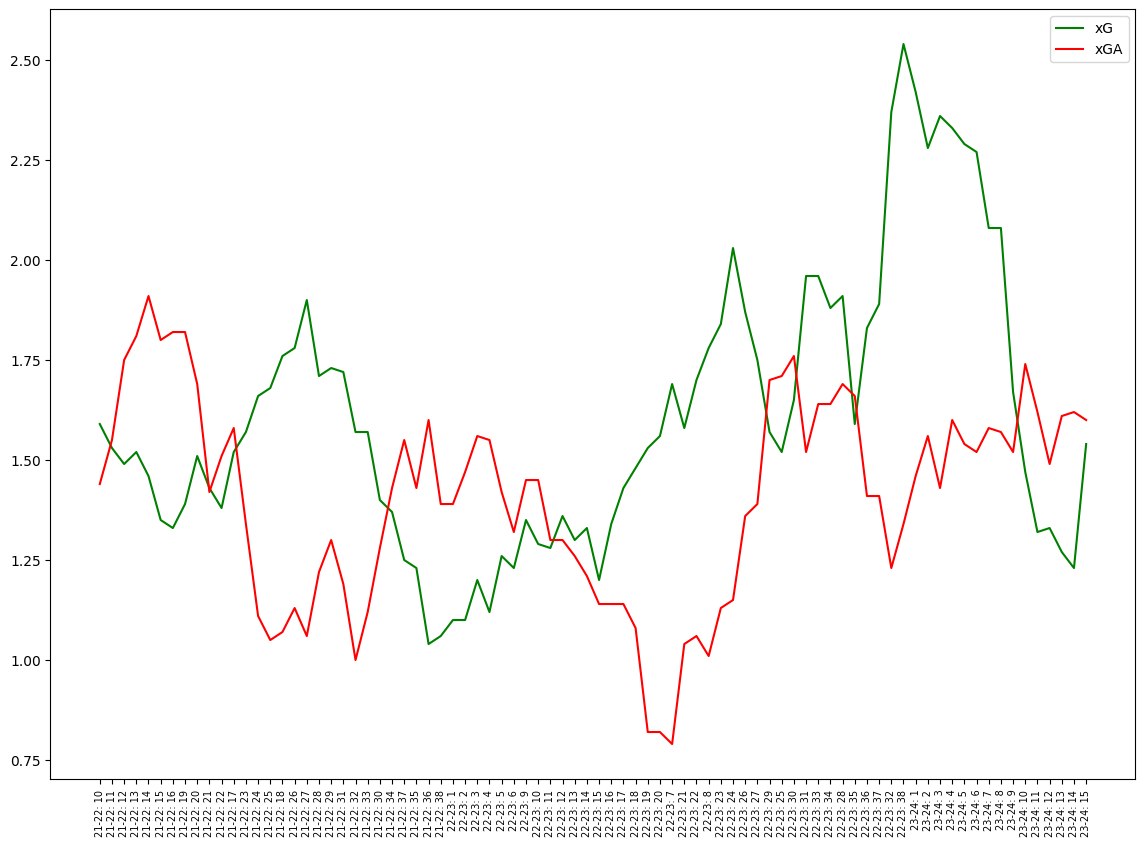
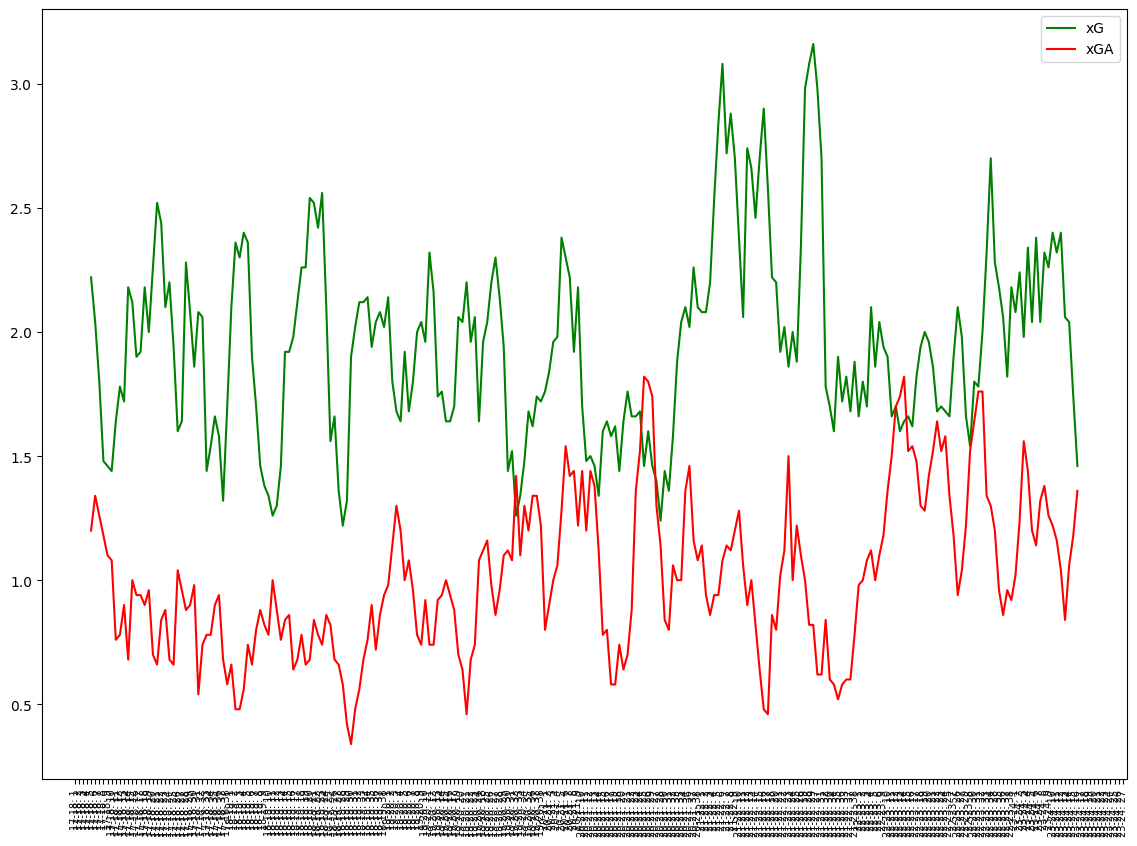
Restructured overall code, created class, added object-orientation

diff --git a/footy_analysis/team_specific.py b/footy_analysis/team_specific.py
@@ -2,42 +2,74 @@ import pandas as pd
 import matplotlib.pyplot as plt
 import numpy as np
 
-df_23_24 = pd.read_html('https://fbref.com/en/squads/19538871/Manchester-United-Stats')
-df_21_22 = pd.read_html('https://fbref.com/en/squads/19538871/2021-2022/Manchester-United-Stats')
-df_22_23 = pd.read_html('https://fbref.com/en/squads/19538871/2022-2023/Manchester-United-Stats')
 
-# Save the actual df that we'd like
-results_23_24_df = df_23_24[1]
-results_22_23_df = df_22_23[1]
-results_21_22_df = df_21_22[1]
+class TeamClass:
+    """Creates an individual team object, from which we can perform analysis"""
 
-results_22_23_df['season'] = '22-23'
-results_23_24_df['season'] = '23-24'
-results_21_22_df['season'] = '21-22'
+    def __init__(self, param1):
+        team_sheets = pd.read_csv('footy_analysis/premier_league_fbpages.csv')
+        print(team_sheets.head(5))
 
-df = pd.concat([results_21_22_df, results_22_23_df, results_23_24_df])
+        self.df = pd.DataFrame()
 
-def rolling_average(df, col, window):
-    df[col + '_rolling'] = df[col].rolling(window=window).mean()
-    return df
+        # Append all column not equal to 'team' to the df
+        for col in team_sheets.columns[team_sheets.columns != 'team']:
+            temp_df = pd.read_html(team_sheets.loc[team_sheets['team'] == param1][col].values[0])
+            temp_df = temp_df[1]
+            temp_df['season'] = col
+            self.df = pd.concat([self.df, temp_df])
+        
+        self.team = param1
+    
+    def clean(self):
+        self.df = self.df.loc[self.df['Comp'] == 'Premier League']
+        self.df['Round'] = self.df['Round'].str.extract('(\d+)')
+        self.df['Round'] = self.df['season'] + ': ' + self.df['Round'].astype(str)
 
-df_rolling = rolling_average(df.loc[df['Comp'] == 'Premier League'], 'xG', 10)
-df_rolling = rolling_average(df_rolling, 'xGA', 10)
-df_rolling_red = df_rolling.loc[~df_rolling['xG'].isnull() & ~df_rolling['xG_rolling'].isnull()]
+        # Round values should be ordered chronologicaly
+        self.df['Round'] = pd.Categorical(self.df['Round'], categories=self.df['Round'].unique(), ordered=True)
 
-# Create a combined season and round column - extract the full season column, then a colon, and then the number from the round column
-df_rolling_red['Round'] = df_rolling_red['Round'].str.extract('(\d+)')
-df_rolling_red['Round'] = df_rolling_red['season'] + ': ' + df_rolling_red['Round'].astype(str)
+        return self.df
+    
+    def rolling_average(self, col, window):
+        self.df[col + '_rolling'] = self.df[col].rolling(window=window).mean()
+        return self.df
+    
+    def plot_rolling_averages(self, cols, seasons, colors=['green', 'red']):
+        """Plots a rolling average for a given column and a list of seasons"""
+        # Create a temp dataframe of only the seasons we want to plot, and only where cols are not null
+        temp_df = self.df.loc[self.df['season'].isin(seasons) & self.df[cols[0]].notnull()]
 
-# Plot the rolling xG average
-larger_figsize = (14, 10)  # Adjust these values as needed
-plt.figure(figsize=larger_figsize)
-plt.plot(df_rolling_red['Round'], df_rolling_red['xG_rolling'], color='green')
-plt.plot(df_rolling_red['Round'], df_rolling_red['xGA_rolling'], color='red')
-plt.legend(['xG', 'xGA'])
-plt.xticks(rotation=90)
-# decrease x-axis label font size
-plt.xticks(fontsize=7)
-plt.savefig('united.png', bbox_inches="tight")
+        print(temp_df.head(5))
+        # Plot the rolling average
+        plt.figure(figsize=(14, 10))
+        for col in range(len(cols)):
+            plt.plot(temp_df['Round'], temp_df[cols[col] + '_rolling'], color=colors[col])
+        
+        # Fill in area between the two lines with green when col 0 is greater than col 1
+        plt.fill_between(temp_df['Round'], temp_df[cols[0] + '_rolling'], temp_df[cols[1] + '_rolling'], 
+                         where=temp_df[cols[0] + '_rolling'] > temp_df[cols[1] + '_rolling'], facecolor='lightgreen', interpolate=True)
+        # Fill in area between the two lines with red when col 1 is greater than col 0
+        plt.fill_between(temp_df['Round'], temp_df[cols[0] + '_rolling'], temp_df[cols[1] + '_rolling'], 
+                         where=temp_df[cols[0] + '_rolling'] < temp_df[cols[1] + '_rolling'], facecolor='lightcoral', interpolate=True)
+        plt.title(self.team + ' ' + cols[0] + ' vs ' + cols[1] + ' rolling average')
+        plt.xticks(rotation=90)
+        plt.show()
+        
+def main():
+    """Main function for demonstrating the use of MyClass."""
+    # Example usage:
+    instance = TeamClass('Liverpool')
 
-print(df_rolling_red.tail(10))
+    instance.clean()
+
+    # Calculate rolling averages
+    instance.rolling_average('xG', 10)
+    instance.rolling_average('xGA', 10)
+    instance.rolling_average('GF', 10)
+
+    instance.plot_rolling_averages(['GF', 'xG'], ['21-22', '22-23', '23-24'], ['darkgreen', 'lightgreen'])
+
+
+if __name__ == "__main__":
+    main()
